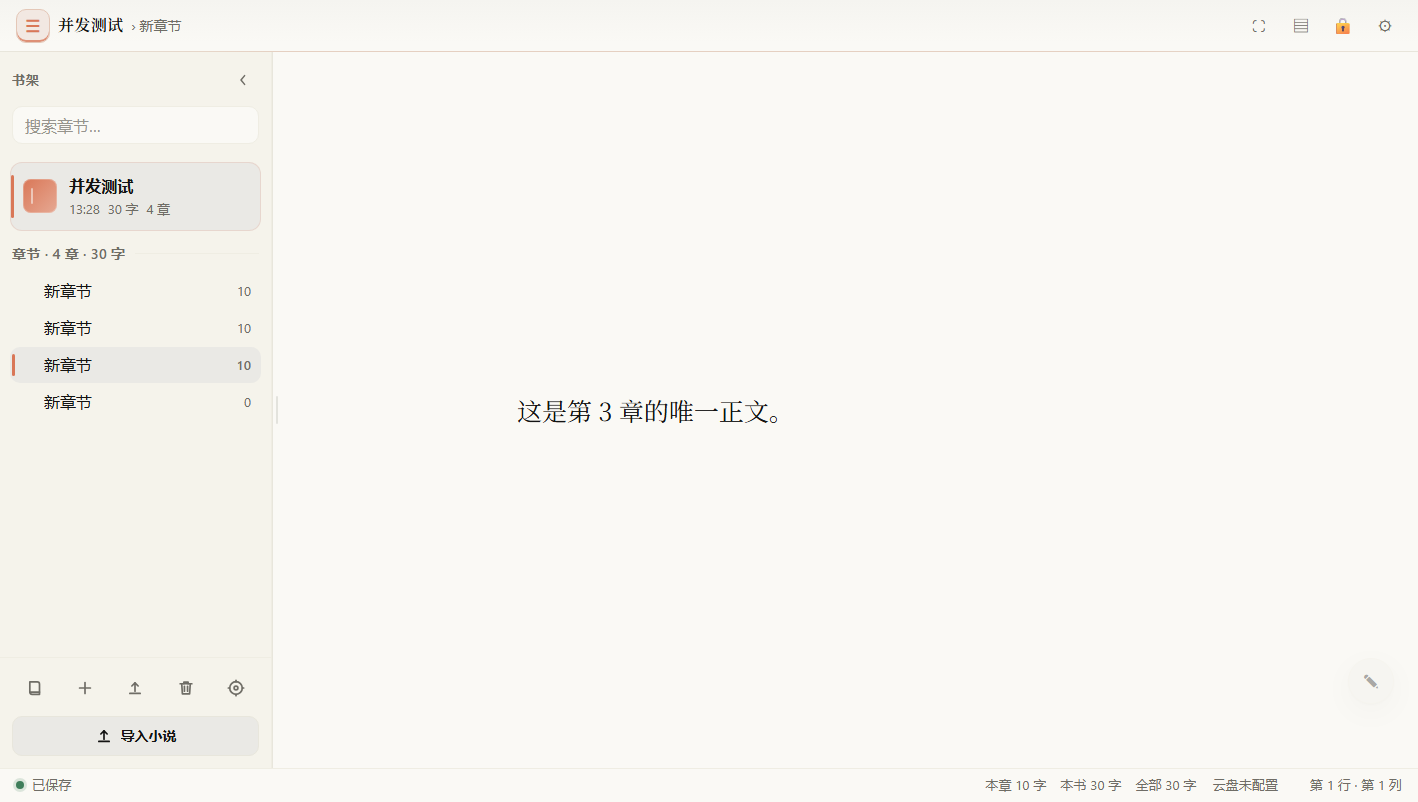
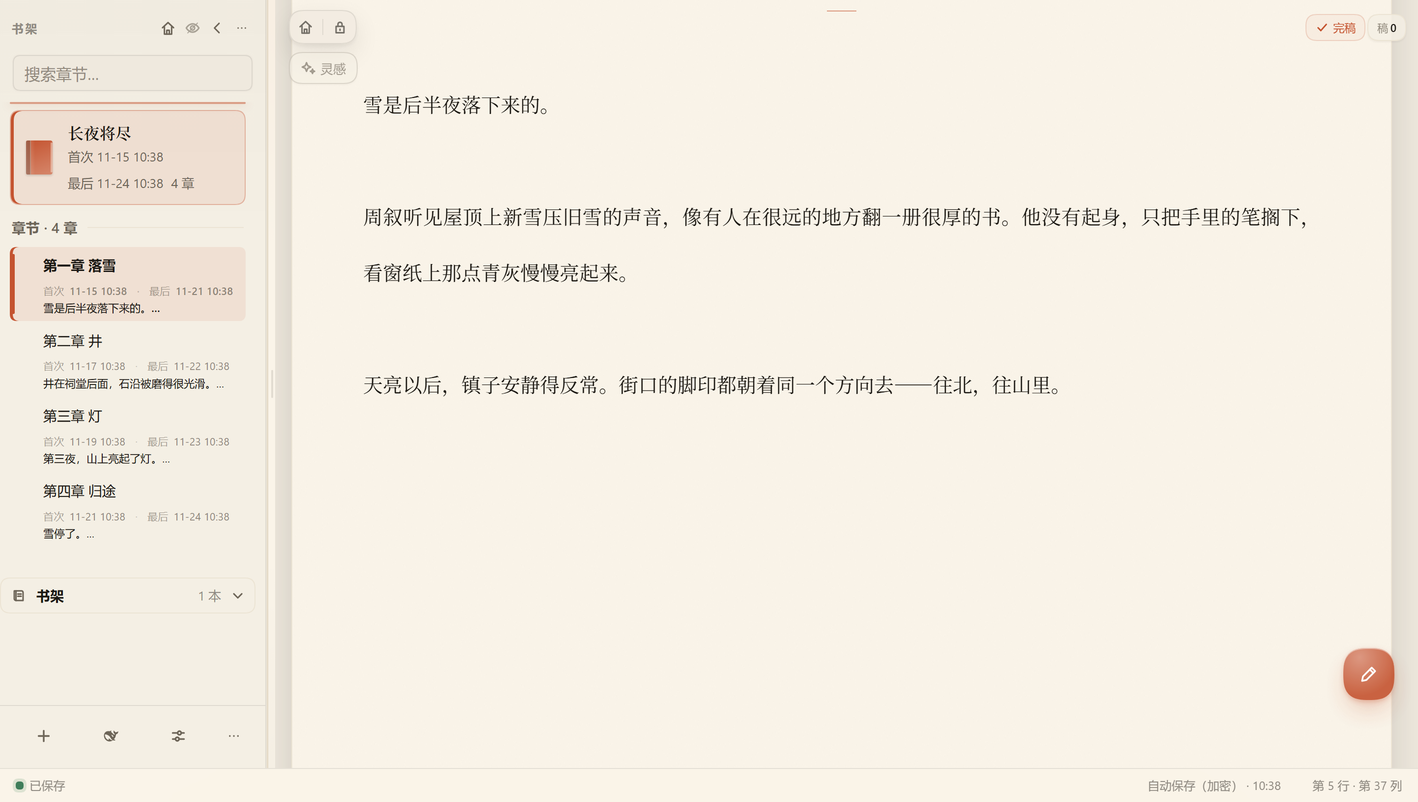
R189: README 截图换成当前界面（编辑器/AI建议/夜间三张）

diff --git a/docs/CHANGELOG.md b/docs/CHANGELOG.md
@@ -1,5 +1,9 @@
 # 精神空间 · 开发日志与详细文档
 
+- 第一百八十九轮（R189）**README 截图换成当前界面**：
+  - 用户原话：「README里的截图还是旧版本的图」「截两三个代表性的就行」——旧图停留在改版前（标题栏、AI 校对弹窗），已全部换成当前界面的三张：编辑器主页、AI 建议栏（粘贴导入的两条卡片、原文/改后对照）、夜间主题。
+  - 制作方式：无头 Chrome + CDP 直连宿主 `http://127.0.0.1:60193`，伪造登录 cookie；向 IndexedDB 播种一部演示小说《长夜将尽》（4 章），拦截 `crypto.state` / `client.state` 以绕过真实密码锁屏，并把笔名、联系邮箱、投稿记录等私人数据从演示态里剔除；截图按插件面板 `.nw-root` 裁切后统一缩到 1418×802。
+  - README 截图区从「编辑器 / 夜间 / 设置 / 投稿 / AI 建议 / 沉浸模式」六宫格收成「编辑器 + AI 建议 + 夜间」三张；`final-01-canvas.png`、`final-05a-proofread.png`、`final-07-night.png` 三个文件原地替换，其余旧图仍留在 `docs/screenshots/` 供开发日志引用。
 - 第一百八十八轮（R188）**README 重写，仓库整理**：
   - 根目录 README 从 242 行的设计长文改成面向使用者的项目主页：徽章、一句话定位、功能分组（写作 / 改稿 / 成书 / 投稿 / 数据）、六张截图、安装三步、开发与目录说明；设计细节继续留在本开发日志里。
   - `.gitignore` 补上 `.probe/`、`.ref/`、`.shots/` 三个本地草稿目录和 `client/head-client.js`（早先无头构建留下的孤儿产物，实际入口只有 `client/client.js`）。

diff --git a/README.md b/README.md
@@ -60,17 +60,11 @@
 
 ## 截图
 
-| 编辑器 | 夜间 |
+| 编辑器 | AI 建议 |
 | :-: | :-: |
-| ![编辑器](docs/screenshots/final-01-canvas.png) | ![夜间](docs/screenshots/final-07-night.png) |
+| ![编辑器](docs/screenshots/final-01-canvas.png) | ![AI 建议](docs/screenshots/final-05a-proofread.png) |
 
-| 设置 | 投稿 |
-| :-: | :-: |
-| ![设置](docs/screenshots/final-03-settings.png) | ![投稿](docs/screenshots/final-04-submit.png) |
-
-| AI 建议 | 沉浸模式 |
-| :-: | :-: |
-| ![AI 建议](docs/screenshots/final-05a-proofread.png) | ![沉浸模式](docs/screenshots/final-06-immersive.png) |
+![夜间主题](docs/screenshots/final-07-night.png)
 
 ## 快速开始
 
